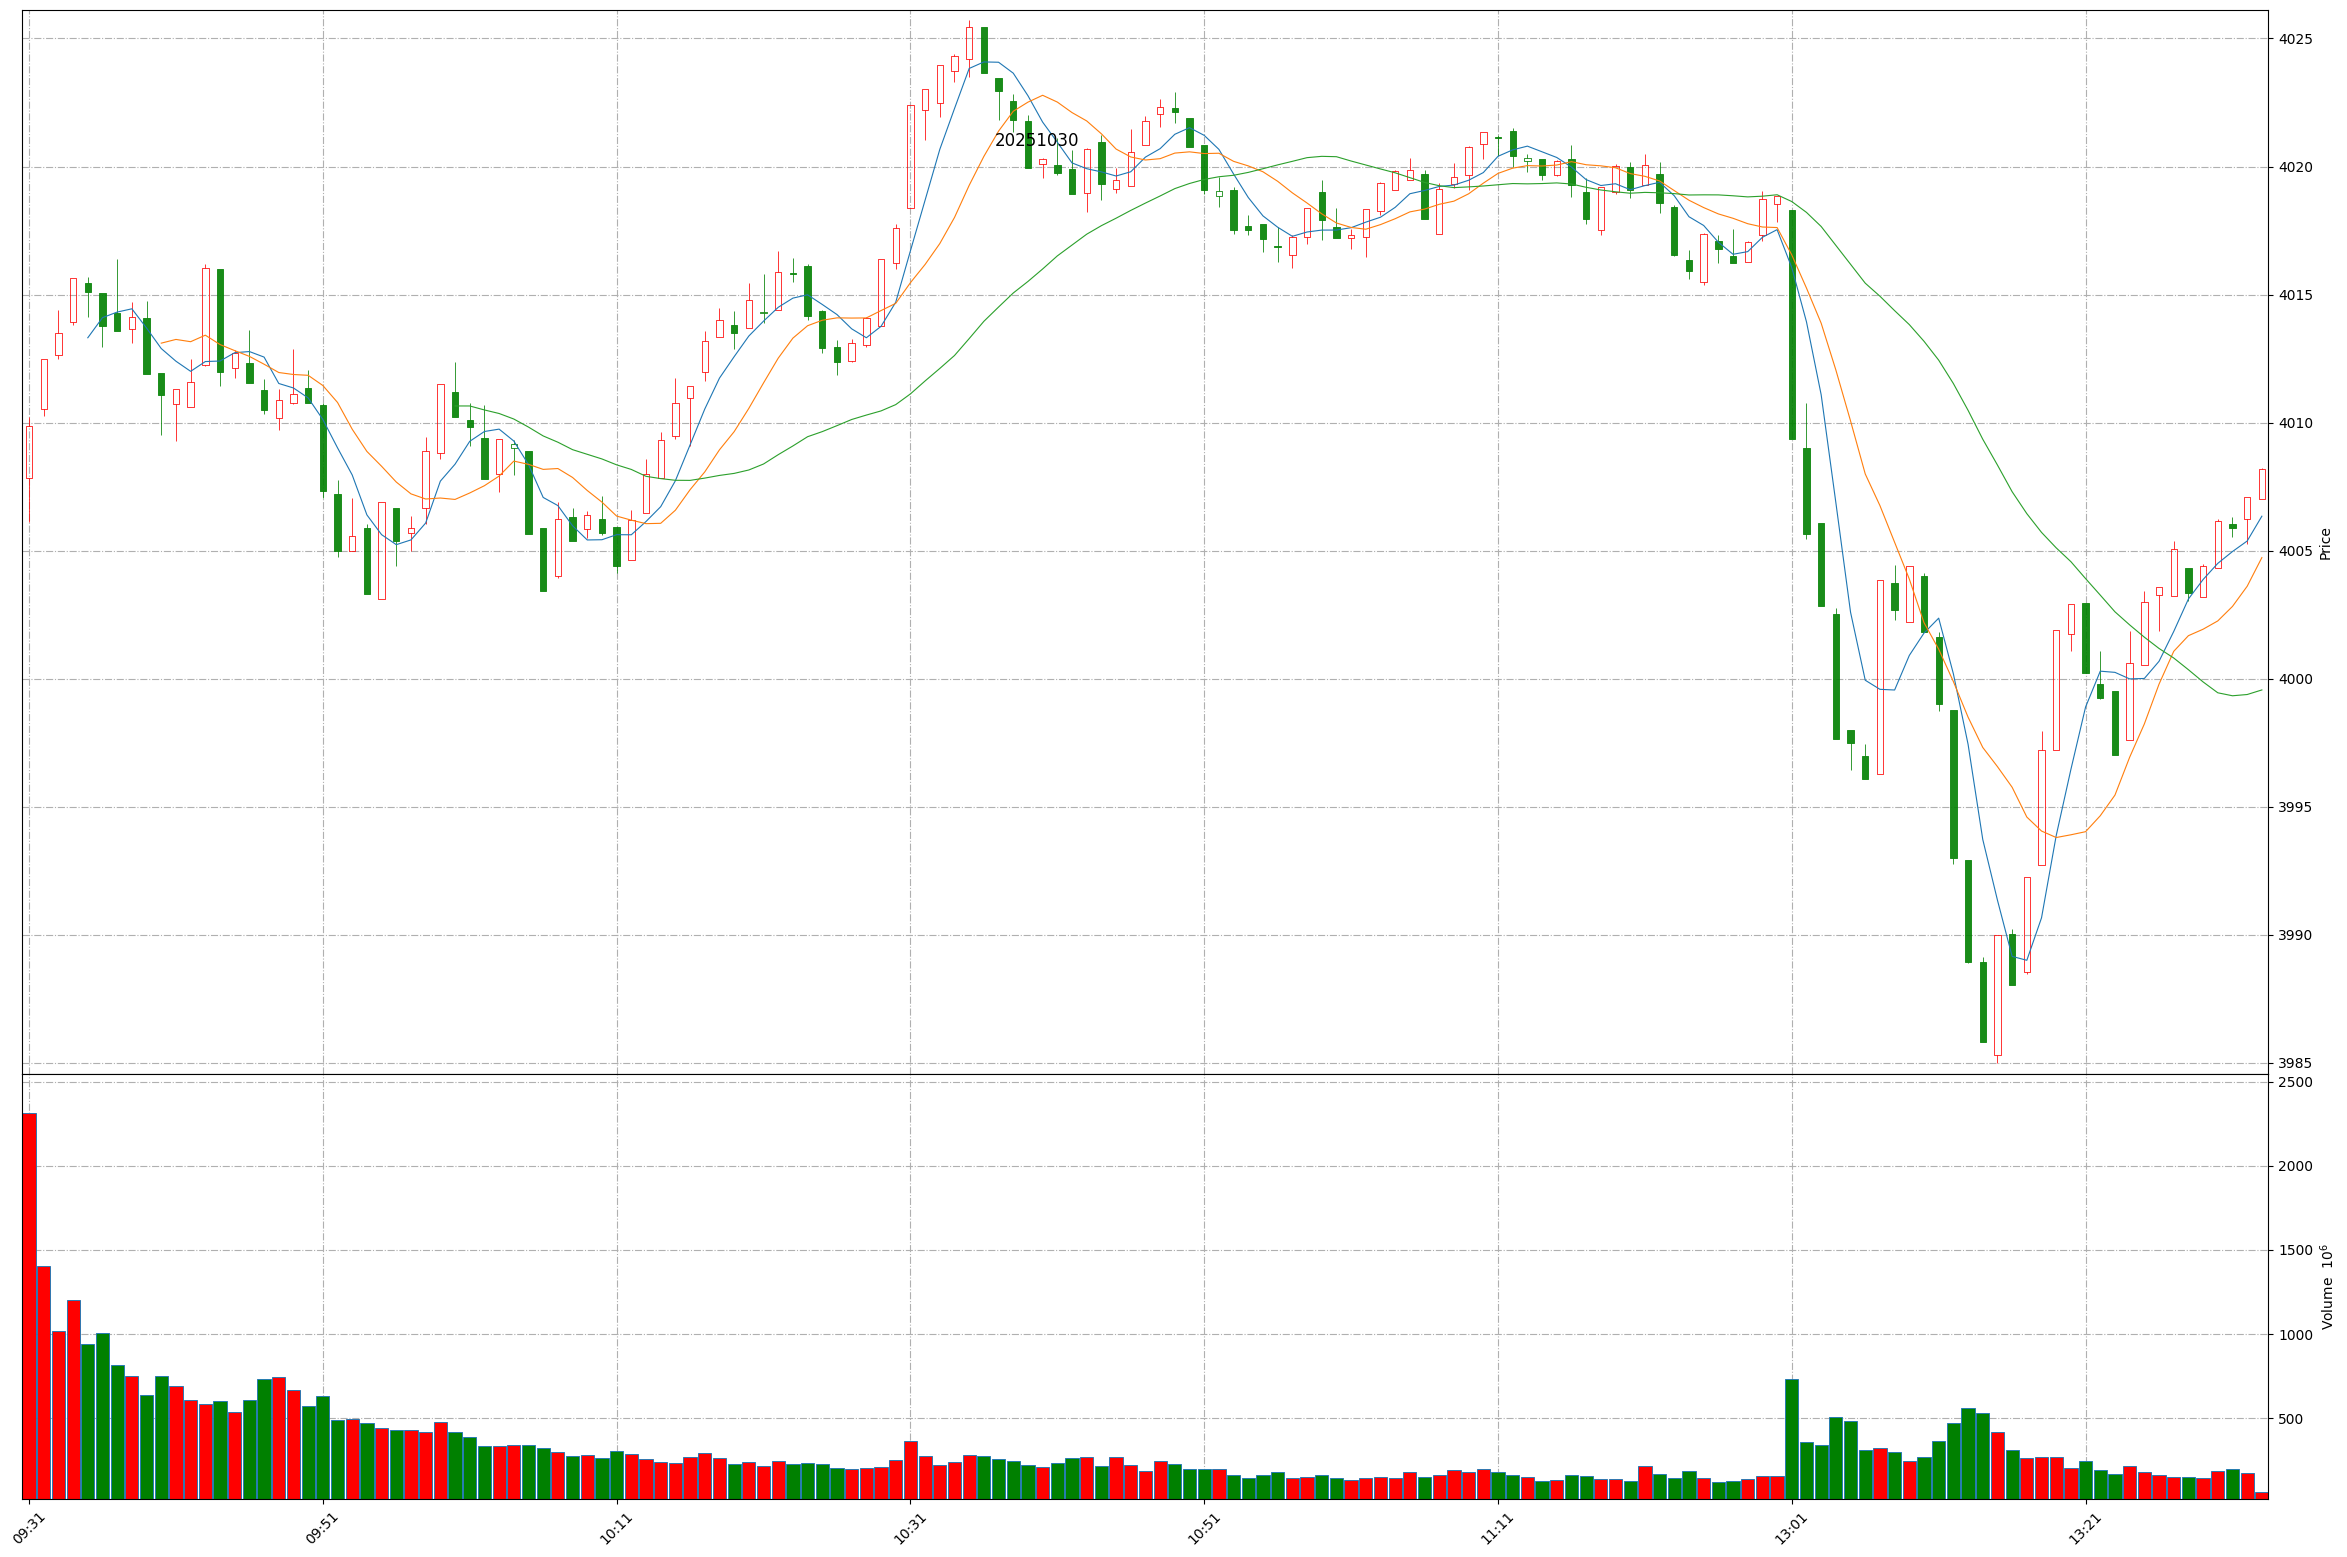
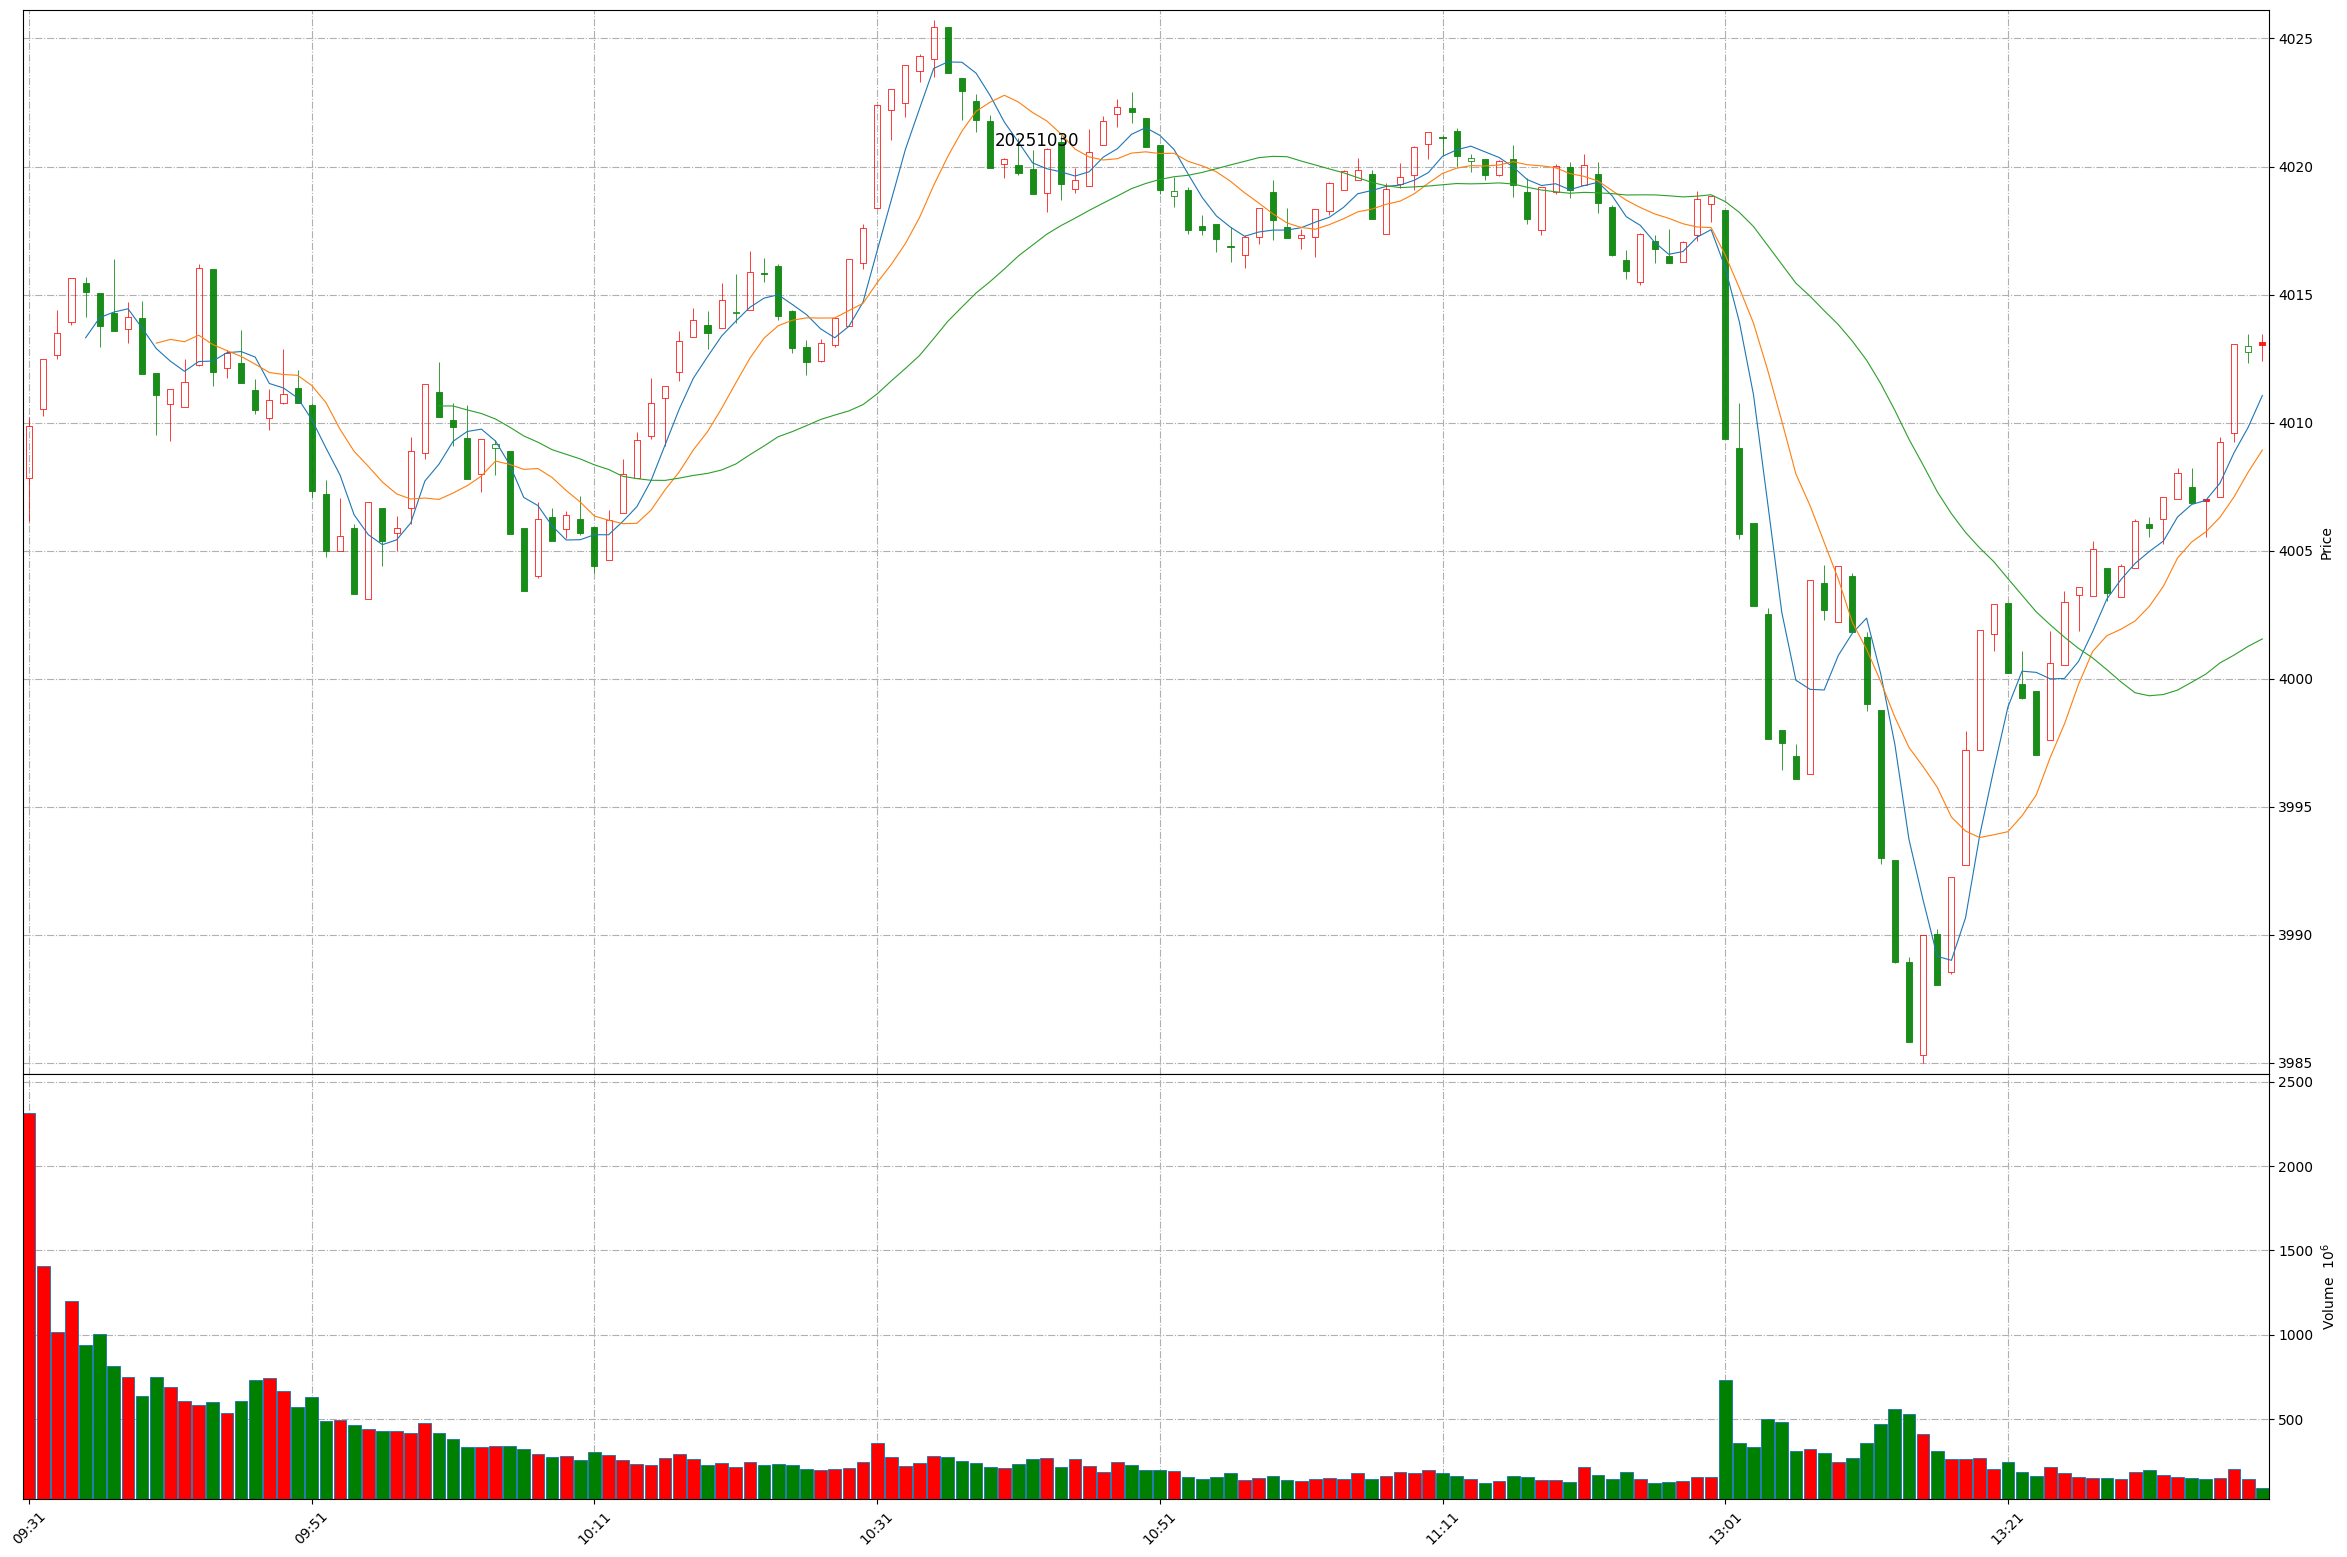
Github action update at 2025-10-30 13:39:01.

diff --git a/README.md b/README.md
@@ -1,11 +1,11 @@
 
 # Daily-A-share-market-quotes 每日 A 股指数（5min 更新）- 20251030
 
-### 上证指数 20251030 13:32
+### 上证指数 20251030 13:39
 ![](./fig/2025/10/20251030-sh000001.png)
 
-### 深证成指 20251030 13:32
+### 深证成指 20251030 13:39
 ![](./fig/2025/10/20251030-sz399001.png)
 
-### 北证50 20251030 13:32
+### 北证50 20251030 13:39
 ![](./fig/2025/10/20251030-bj899050.png)
